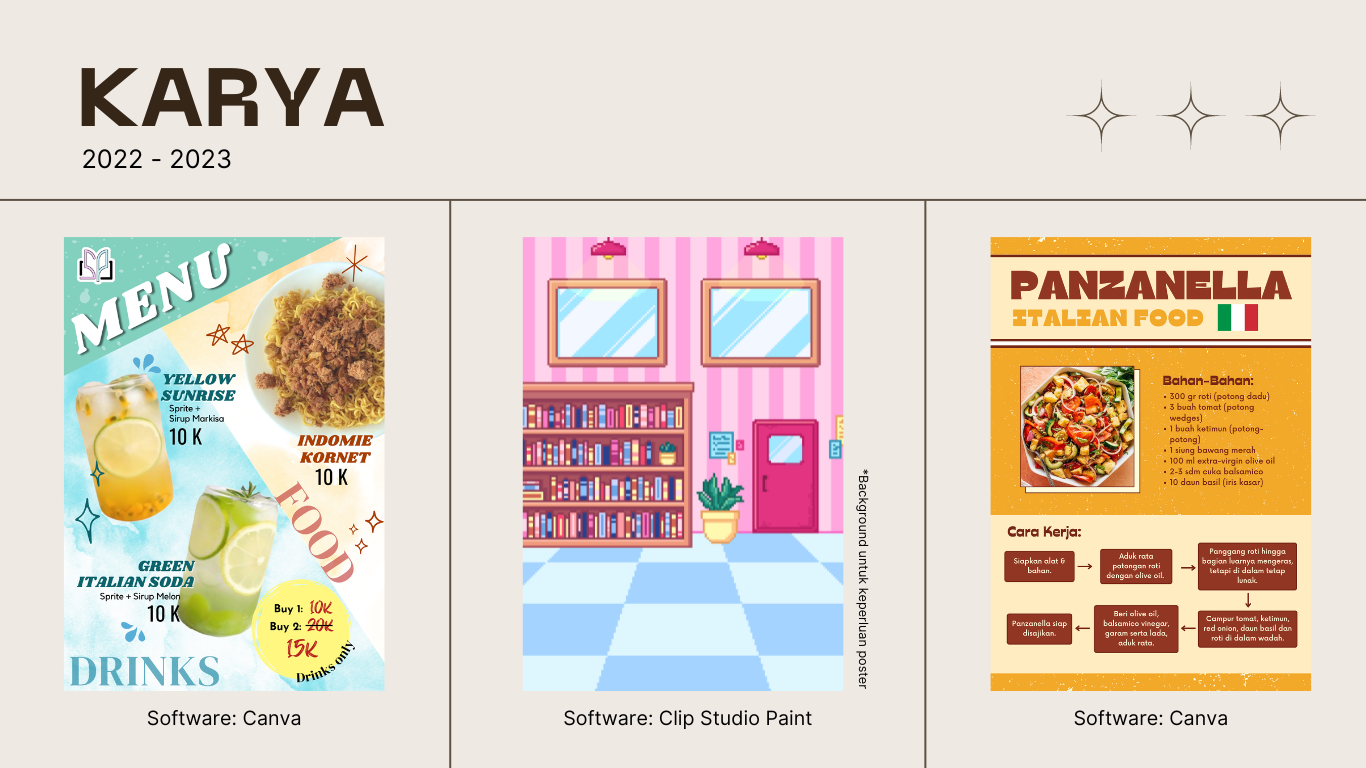
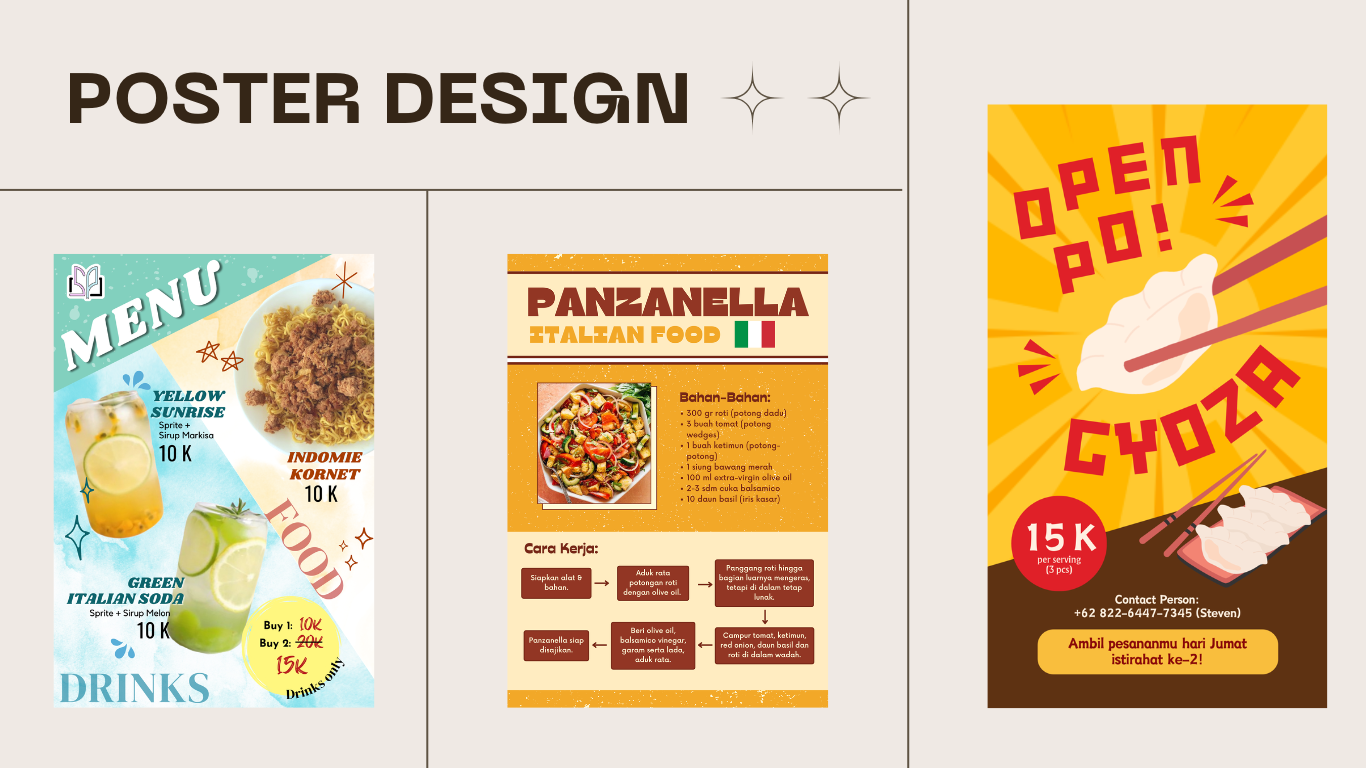
fourth commit

diff --git a/design.html b/design.html
@@ -19,6 +19,7 @@
 
     <div class="img-container">
         <img src="Portfolio/1.png">
+        <img src="Portfolio/2.png">
         <img src="Portfolio/3.png">
         <img src="Portfolio/4.png">
         <img src="Portfolio/5.png">
@@ -27,6 +28,17 @@
         <img src="Portfolio/8.png">
         <img src="Portfolio/9.png">
         <img src="Portfolio/10.png">
+        <img src="Portfolio/11.png">
+        <img src="Portfolio/12.png">
+        <img src="Portfolio/13.png">
+        <img src="Portfolio/14.png">
+        <img src="Portfolio/15.png">
+        <img src="Portfolio/16.png">
+        <img src="Portfolio/17.png">
+        <img src="Portfolio/18.png">
+        <img src="Portfolio/19.png">
+        <img src="Portfolio/20.png">
+        <img src="Portfolio/21.png">
     </div>
 </body>
 </html>

diff --git a/styledesign.css b/styledesign.css
@@ -30,6 +30,8 @@ h1 {
     flex-direction: column;
     align-items: center;
     margin-top: 35px;
+    margin-left: 10%;
+    margin-right: 10%;
 }
 
 img {
@@ -43,5 +45,14 @@ img {
 @media only screen and (max-width: 768px) {
     h1 {
         font-size: 5rem;
+    }
+
+    .img-container {
+        display: flex;
+        flex-direction: column;
+        align-items: center;
+        margin-top: 35px;
+        margin-left: 0%;
+        margin-right: 0%;
     }
 }
